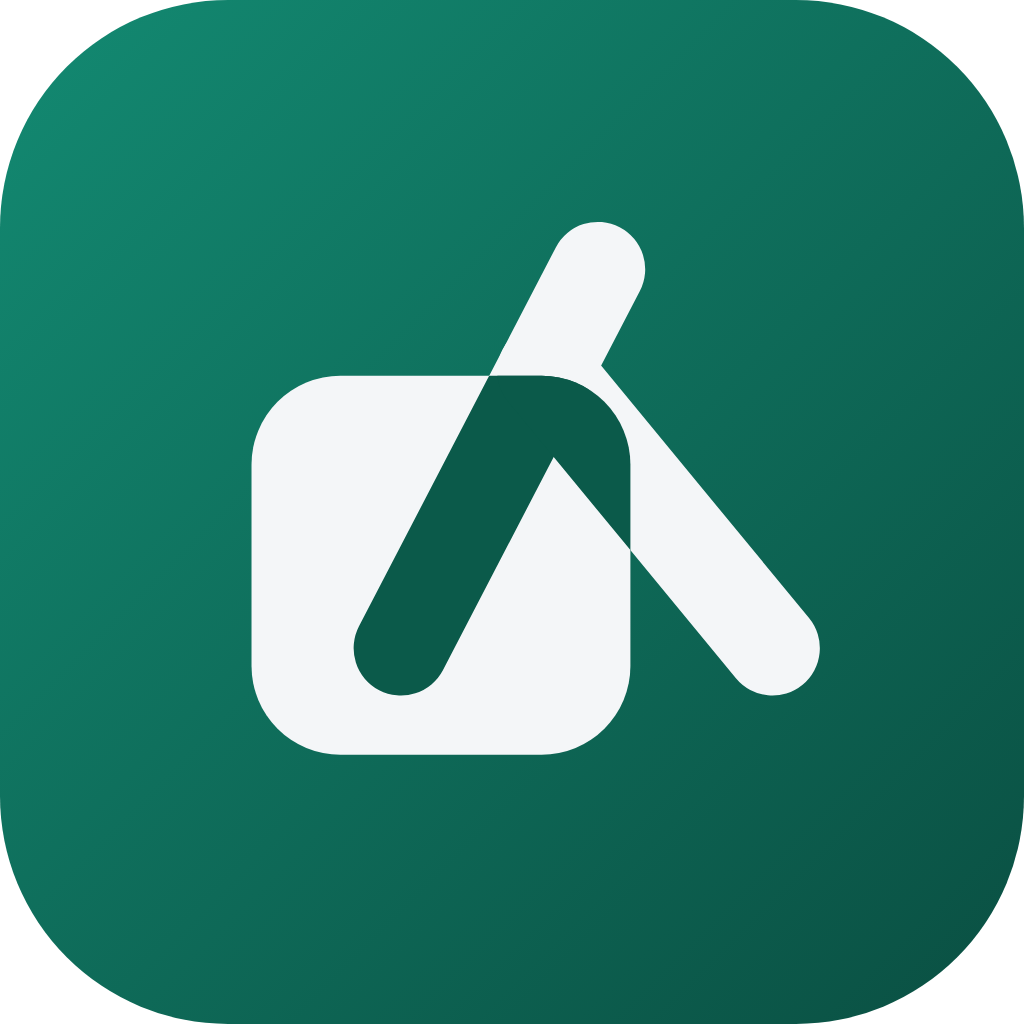
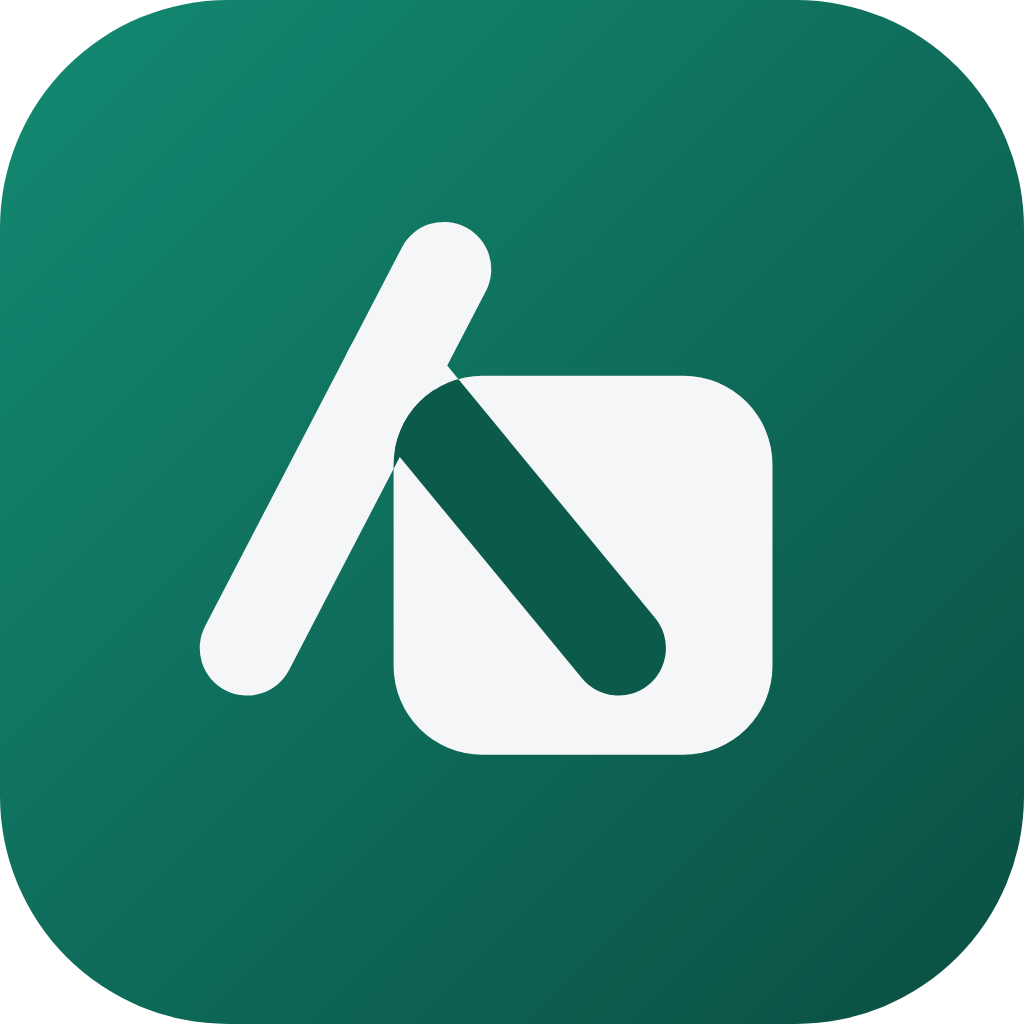
feat(brand): ㅅ on the left, ㅁ on the right — reading order of 소문

Changed region(s): [[0.1875, 0.2188, 0.8125, 0.75]]

diff --git a/docs/brand/BRAND.md b/docs/brand/BRAND.md
@@ -25,14 +25,14 @@
 
 한 줄: **지어내지 않는 편집자.**
 
-## 4. 상징 — ㅁ 위로 ㅅ
+## 4. 상징 — ㅅ, 그리고 ㅁ
 
 이름 **소문**의 두 자모가 뜻을 나눠 갖는다.
 
 - **ㅁ** — 만든 것. 상자, 저장소, 결과물. 꽉 찬 둥근 사각.
 - **ㅅ** — 말. 사람(人)이 마주 서서 말을 건네는 두 획, 교정지의 캐럿(^) "여기에 넣어라", 소문이 퍼지는 갈래.
 
-마크는 **ㅁ 위로 ㅅ이 걸쳐 나가는** 모노그램이다. 만든 것에서 말이 번진다.
+마크는 **ㅅ이 ㅁ 위로 걸쳐 들어오는** 모노그램이다. 읽는 순서대로 소(ㅅ)가 왼쪽, 문(ㅁ)이 오른쪽에 있고, ㅅ의 오른획이 ㅁ의 왼쪽 위 모서리로 들어온다. 만든 것에서 말이 번진다.
 ㅁ 안쪽에 들어온 ㅅ은 종이색으로 반전(녹아웃)해 한 톤에서 두 형태가 짜인다.
 점·파문·그림자 같은 장식은 없다. 형태 둘, 색 하나.
 
